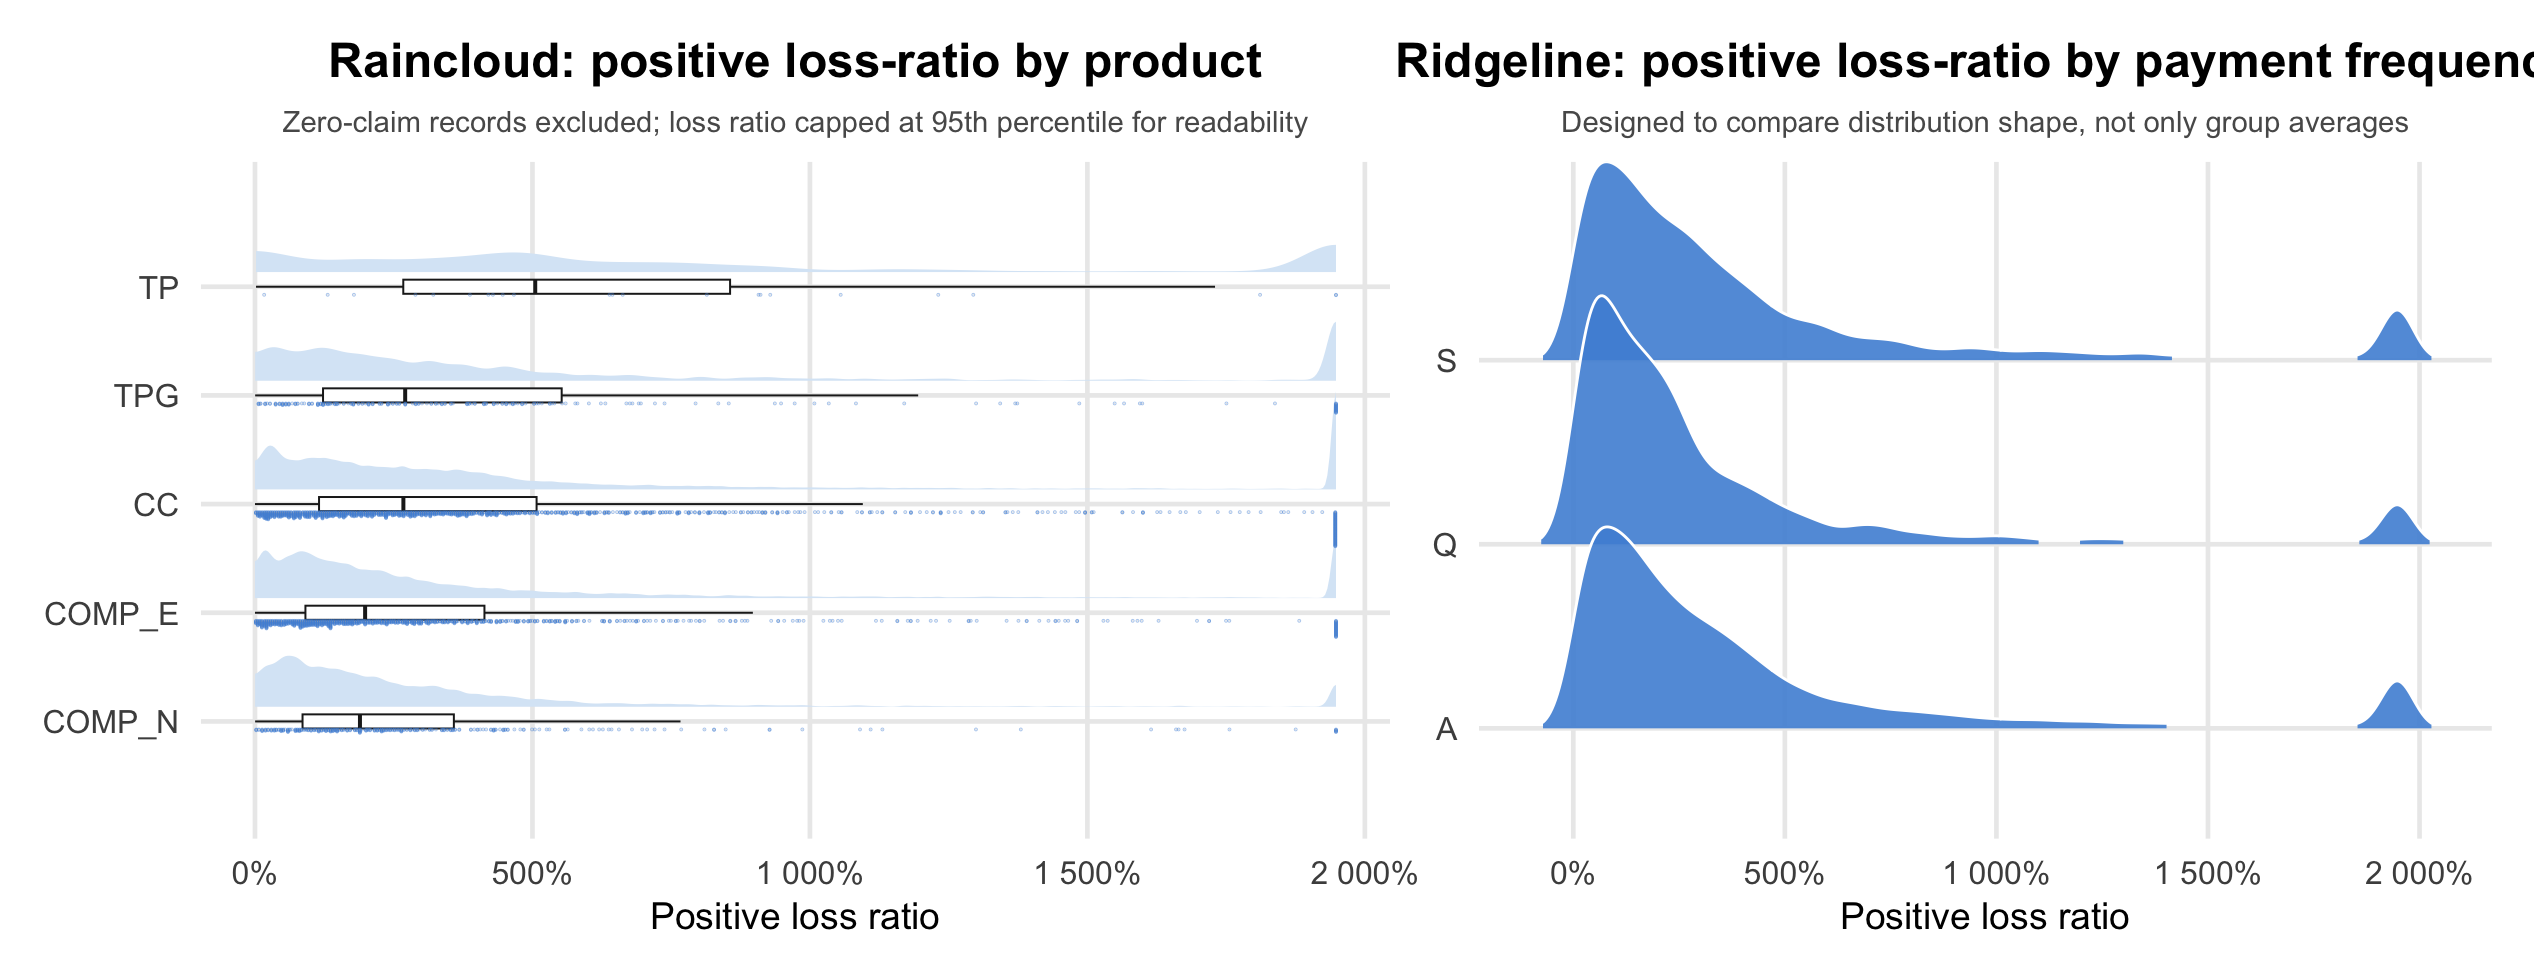
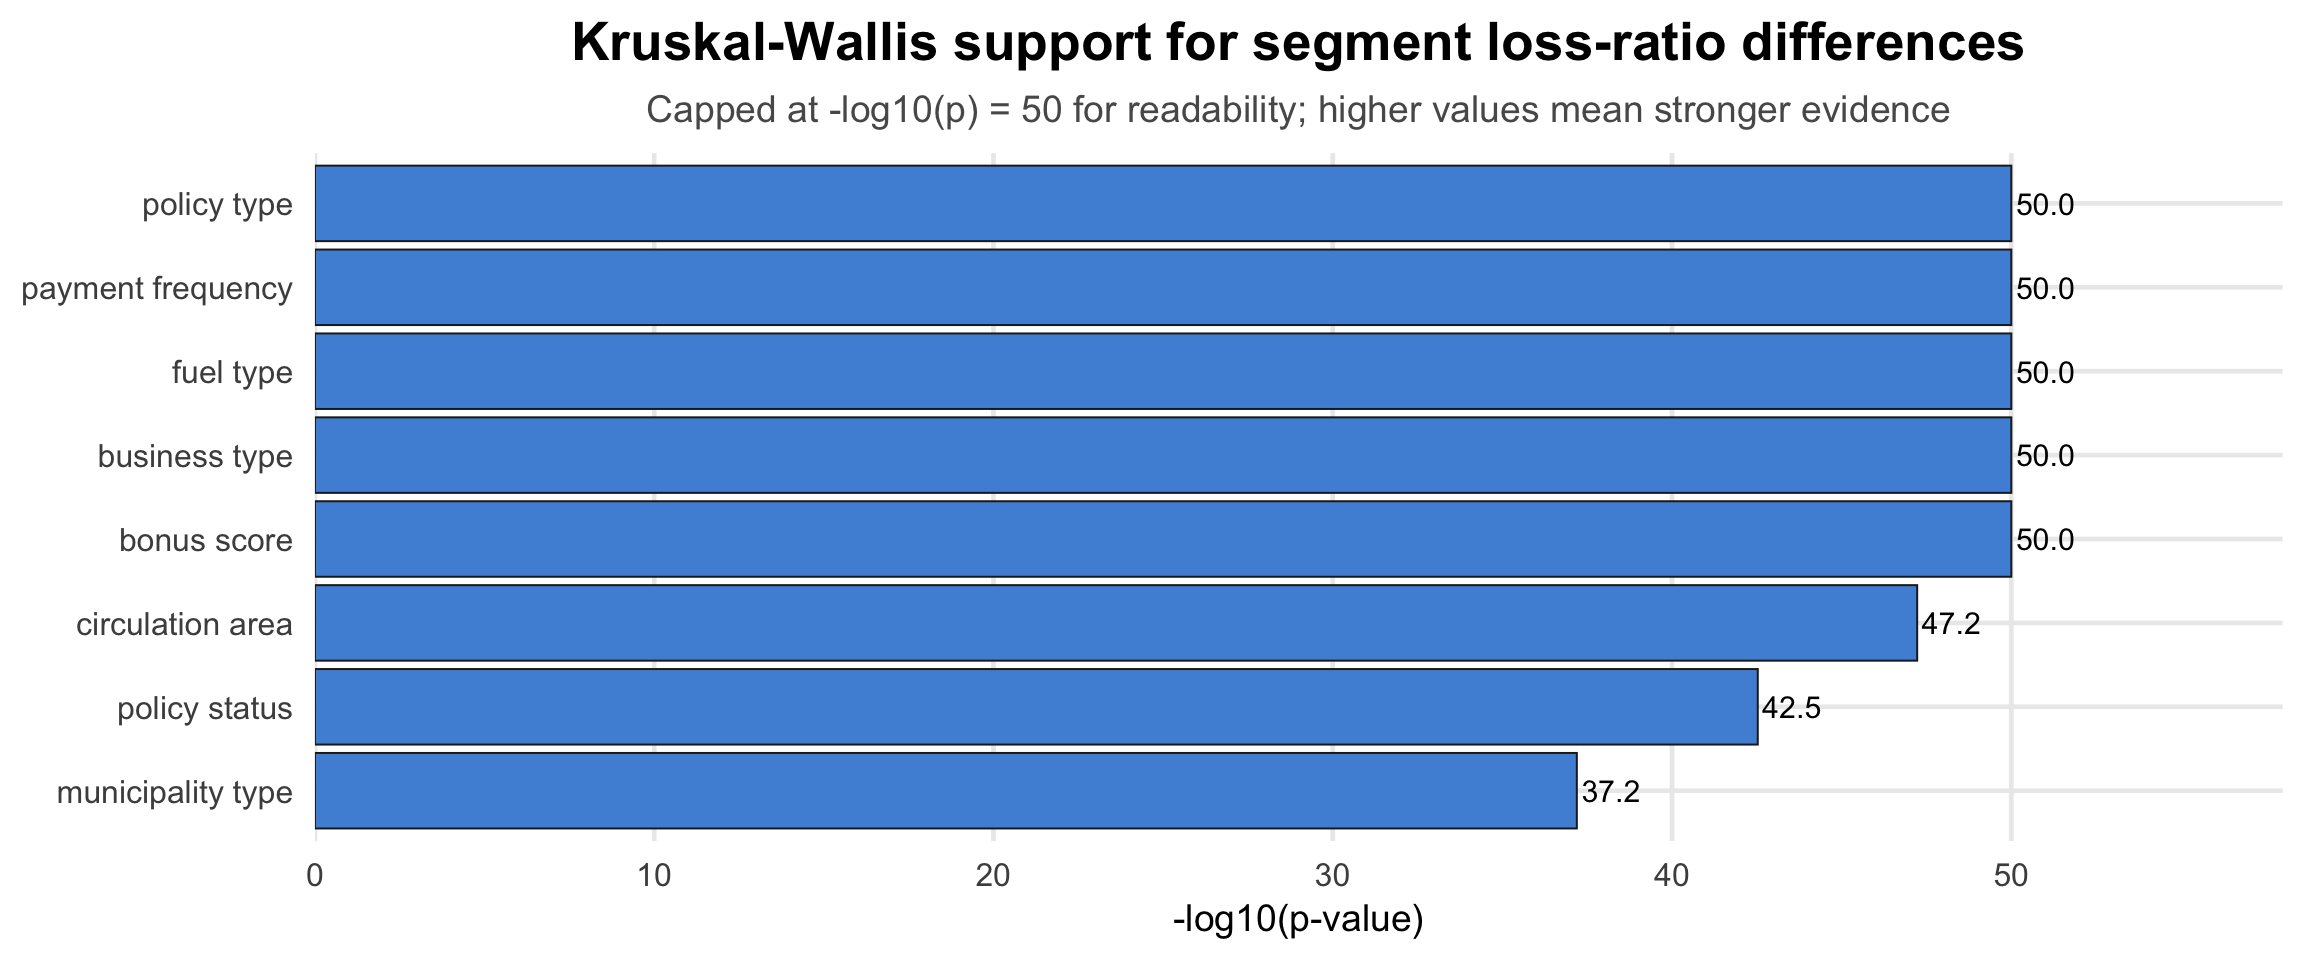
final updates

diff --git a/_site/Take-home_Ex/Take-home_Ex01/Executive_Summary.html b/_site/Take-home_Ex/Take-home_Ex01/Executive_Summary.html
@@ -229,8 +229,8 @@ Motor Insurance Portfolio Profitability and Volatility
   transform: none !important;
 
   width: 100% !important;
-  height: 100vh !important;
-  min-height: 100vh !important;
+  height: 100% !important;
+  min-height: 100% !important;
 
   padding: 0 !important;
   margin: 0 !important;
@@ -261,7 +261,7 @@ Motor Insurance Portfolio Profitability and Volatility
   align-items: center !important;
 
   text-align: center !important;
-  transform: translateY(-2vh);
+  transform: translateY(-1vh);
 }
 
 /* Main cover title */
@@ -301,8 +301,8 @@ Motor Insurance Portfolio Profitability and Volatility
   top: 0 !important;
   left: 0 !important;
   transform: none !important;
-  height: 100vh !important;
-  min-height: 100vh !important;
+  height: 100% !important;
+  min-height: 100% !important;
   width: 100% !important;
 
   display: flex !important;
@@ -369,50 +369,12 @@ Motor Insurance Portfolio Profitability and Volatility
           display:block!important;
       }</style></aside>
 </section>
-<section id="contents" class="slide level2">
-<h2>Contents</h2>
-<div class="columns">
-<div class="column" style="width:50%;">
-<div class="content-card">
-<p><strong>1. Data and KPI design</strong><br> Policy-year unit, exposure adjustment, and profitability metrics.</p>
-</div>
-<div class="content-card">
-<p><strong>2. Portfolio-level diagnostics</strong><br> Growth, loss-ratio trend, zero claims, and loss-tail behaviour.</p>
-</div>
-<div class="content-card">
-<p><strong>3. Segment-level visual discovery</strong><br> Product, bonus score, payment frequency, policy status, and geography.</p>
-</div>
-</div><div class="column" style="width:50%;">
-<div class="content-card">
-<p><strong>4. Advanced visual analytics</strong><br> Heatmap, funnel plot, raincloud plot, and ridgeline comparison.</p>
-</div>
-<div class="content-card">
-<p><strong>5. Statistical support</strong><br> Non-parametric validation of segment differences.</p>
-</div>
-<div class="content-card">
-<p><strong>6. Management implications</strong><br> Where underwriting and pricing attention should go first.</p>
-</div>
-</div></div>
-<aside class="notes">
-<p>The presentation is structured as a decision-oriented visual analysis, not a chart gallery. Each section answers a specific management question: whether the portfolio is profitable, where volatility appears, which segments explain the pressure, and which findings are strong enough to guide further underwriting or pricing review.</p>
-<style type="text/css">
-        span.MJX_Assistive_MathML {
-          position:absolute!important;
-          clip: rect(1px, 1px, 1px, 1px);
-          padding: 1px 0 0 0!important;
-          border: 0!important;
-          height: 1px!important;
-          width: 1px!important;
-          overflow: hidden!important;
-          display:block!important;
-      }</style></aside>
-</section>
 <section id="observation-1-the-dataset-supports-exposure-adjusted-insurance-analysis" class="slide level2">
 <h2>Observation 1 — The dataset supports exposure-adjusted insurance analysis</h2>
 
 <img data-src="Executive_Summary_files/figure-revealjs/unnamed-chunk-1-1.png" width="1248" class="r-stretch"><div class="obs">
 <ul>
-<li>Dataset contains <strong>354,140 policy-year records</strong> and <strong>`r comma(round(overall$exposure, 0)) exposure years</strong>.</li>
+<li>Dataset contains <strong>354,140 policy-year records</strong> and <strong>250,326 exposure years</strong>.</li>
 <li>The analytical unit is appropriate because premium, claims, incurred losses and exposure are all available.</li>
 <li><strong>Implication: profitability must be analysed using exposure-adjusted and portfolio-weighted metrics, not raw averages.</strong></li>
 </ul>
@@ -673,16 +635,16 @@ Motor Insurance Portfolio Profitability and Volatility
 <section id="method-add-on-2-distribution-shape-confirms-why-simple-averages-are-unstable" class="slide level2">
 <h2>Method Add-on 2 — Distribution shape confirms why simple averages are unstable</h2>
 
-<img data-src="Executive_Summary_files/figure-revealjs/unnamed-chunk-11-1.png" width="1267" class="r-stretch"><div class="obs">
+<img data-src="Executive_Summary_files/figure-revealjs/method-addon-2-distribution-shape-1.png" style="width:100.0%" class="r-stretch"><div class="obs">
 <ul>
-<li>The earlier zero-heavy chart explains claim occurrence; this slide isolates <strong>positive-loss policies</strong> to reveal severity and tail structure.</li>
-<li>Raincloud is used because it combines density, median/IQR, and observation concentration in one view.</li>
-<li>Ridgeline is used because payment frequency has multiple groups and the question is whether the <strong>whole distribution shape</strong> differs, not only the mean.</li>
+<li>This slide isolates <strong>positive-loss policies</strong> because zero-claim records already dominate the full portfolio distribution.</li>
+<li>Raincloud is used for product type because it combines density, median/IQR, and observation concentration.</li>
+<li>Ridgeline is used for payment frequency because the analytical question is whether the <strong>whole distribution shape</strong> differs.</li>
 <li><strong>Implication: advanced distribution plots are justified because profitability is skewed and tail-driven.</strong></li>
 </ul>
 </div>
 <aside class="notes">
-<p>The previous slide using the full loss-ratio distribution looked almost empty because the 99th percentile cap still allowed a very long x-axis and the portfolio is dominated by zero-claim records. This revised slide is more disciplined: zero-claim records are excluded on purpose, and the x-axis is capped at the 95th percentile of positive loss ratios. Raincloud is used for product type because it shows median, spread, and individual concentration. Ridgeline is used for payment frequency because it compares full distribution shape across several groups.</p>
+<p>This slide is included as a visual analytics add-on beyond basic bar and box plots. Zero-claim records are excluded deliberately because Observation 3 already shows their dominance. The raincloud chart is suitable for product type because it shows distribution shape, median, spread, and individual concentration. The ridgeline chart is suitable for payment frequency because there are multiple groups and the question is whether the overall shape differs, not only whether the average differs. This supports the assignment requirement to use appropriate visual analytics methods and justify why they were selected.</p>
 <style type="text/css">
         span.MJX_Assistive_MathML {
           position:absolute!important;
@@ -698,7 +660,7 @@ Motor Insurance Portfolio Profitability and Volatility
 <section id="statistical-validation-visual-differences-are-not-only-visual-noise" class="slide level2">
 <h2>Statistical Validation — Visual differences are not only visual noise</h2>
 
-<img data-src="Executive_Summary_files/figure-revealjs/unnamed-chunk-12-1.png" width="1152" class="r-stretch"><div class="obs">
+<img data-src="Executive_Summary_files/figure-revealjs/unnamed-chunk-11-1.png" width="1152" class="r-stretch"><div class="obs">
 <ul>
 <li>A non-parametric test is used because loss ratio is heavily skewed and zero-inflated.</li>
 <li>The test supports segment differences, but does <strong>not</strong> prove causality.</li>
@@ -722,7 +684,7 @@ Motor Insurance Portfolio Profitability and Volatility
 <section id="final-recommendations" class="slide level2">
 <h2>Final Recommendations</h2>
 
-<img data-src="Executive_Summary_files/figure-revealjs/unnamed-chunk-13-1.png" width="1286" class="r-stretch"><div class="obs">
+<img data-src="Executive_Summary_files/figure-revealjs/unnamed-chunk-12-1.png" width="1286" class="r-stretch"><div class="obs">
 <p><strong>Overall conclusion:</strong> profitability pressure is not random. It is concentrated in identifiable product, payment, cancellation, and exposure-adjusted segment patterns. The next step is formal actuarial modelling, but the visual analytics already gives management a defensible shortlist for investigation.</p>
 </div>
 <aside class="notes">
